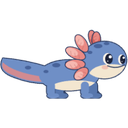
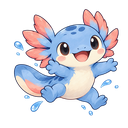
1.0: nuova icona dell'estensione e link al sito
- Icona: Nimblu che salta fuori dall'acqua (posa «salto»); a 16 e 32 px
  senza le gocce, per leggerla meglio nella barra di Chrome.
- README: link al sito https://www.dalpuntoweb.it/nimblu/.

diff --git a/README.md b/README.md
@@ -6,7 +6,7 @@
 
 Nimblu è una mascotte (un axolotl) che cammina sulle pagine che visiti. Quando glielo chiedi, controlla la pagina e ti dice cosa migliorare: ogni problema ha un voto, una spiegazione e un clic che ti porta dritto all’elemento da sistemare. Nelle pause gioca: fa a botte con l’omino del jetpack, corre come i gatti, insegue la pallina e mangia le lettere (poi le ridà).
 
-▶ **Provalo senza installare niente:** [pagina demo](https://95luida.github.io/nimblu/demo/) · 📄 [Presentazione in PDF](docs/Nimblu-presentazione.pdf)
+🌐 **Sito:** [dalpuntoweb.it/nimblu](https://www.dalpuntoweb.it/nimblu/) · ▶ **Provalo senza installare niente:** [pagina demo](https://95luida.github.io/nimblu/demo/) · 📄 [Presentazione in PDF](docs/Nimblu-presentazione.pdf)
 
 > Interfaccia e testi in italiano.
 
